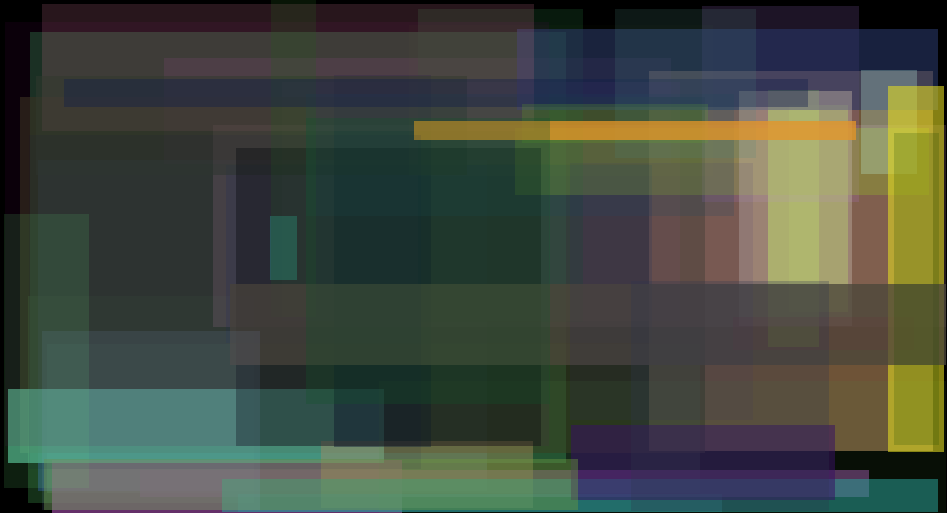
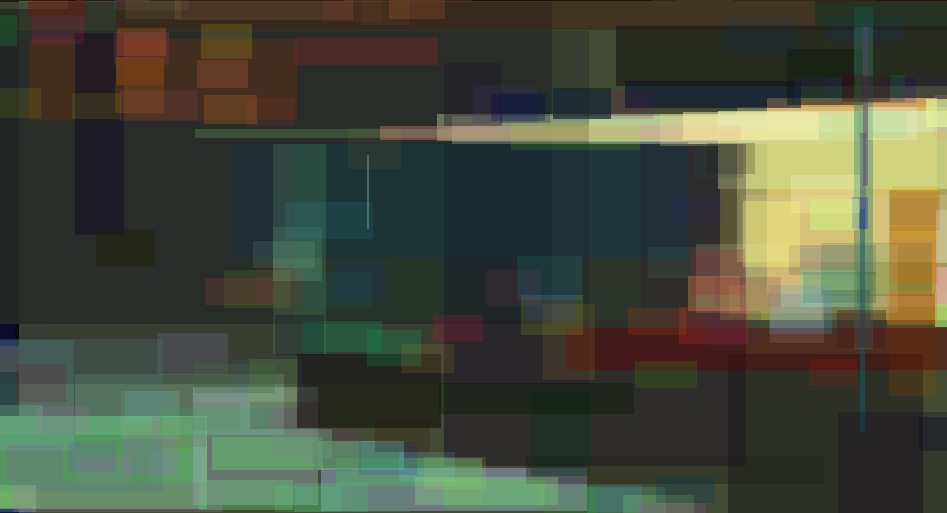
Add simulated annealing generation method

diff --git a/mozaik.py b/mozaik.py
@@ -16,22 +16,40 @@ class RectanglePrimitive:
     def apply(self, img):
         overlay = img.copy()
         output = img.copy()
-        cv2.rectangle(overlay, self.positionA, self.positionB, self.color, -1)
+        size = img.shape[1::-1]
+        cv2.rectangle(overlay, scale(self.positionA, size), scale(self.positionB, size), scale(self.color, 255), -1)
         cv2.addWeighted(overlay, self.alpha, output, 1 - self.alpha, 0, output)
         return output
 
+    def generateNeighbour(self):
+        WINDOW = 0.1
+        def eps():
+            return WINDOW*(2*random.random()-1)
+        size = np.absolute(np.array(self.positionB)-np.array(self.positionA))
+        center = (np.array(self.positionA)+np.array(self.positionB))/2
+        size = np.clip(size*np.array([1+eps(), 1+eps()]), 0.05, 1)
+        center += np.array([eps(), eps()])
+        positionA = np.clip(center-size/2, 0, 1)
+        positionB = np.clip(center+size/2, 0, 1)
+        color = np.clip(np.asarray(self.color)+np.array([eps(), eps(), eps()]), 0, 1)
+        alpha = np.clip(self.alpha+eps(), 0, 1)
+        return RectanglePrimitive(positionA, positionB, color, alpha)
+
     @staticmethod
-    def generateRandom(width, height):
-        positionA = (random.randint(0,width-1), random.randint(0,height-1))
-        positionB = (random.randint(0,width-1), random.randint(0,height-1))
-        color = (random.randint(0,255), random.randint(0,255), random.randint(0,255))
+    def generateRandom():
+        positionA = (random.random(), random.random())
+        positionB = (random.random(), random.random())
+        color = (random.random(), random.random(), random.random())
         alpha = random.random()
         return RectanglePrimitive(positionA, positionB, color, alpha)
 
     def __str__(self):
         return '{} {} - {} x {}'.format(self.positionA, self.positionB, self.color, self.alpha)
 
-def energy(image, reference):
+def scale(data, ratio):
+    return tuple((np.asarray(data)*np.asarray(ratio)).astype(int))
+
+def rmse(image, reference):
     return np.linalg.norm(reference - np.asarray(image, dtype=np.float32))
 
 def loadImage(filename):
@@ -39,20 +57,40 @@ def loadImage(filename):
 
 def randomGeneration(img, shapesCount, iterations):
     reference = np.asarray(img, dtype=np.float32)
-    height, width = img.shape[:2]
-    canvas = np.zeros((height,width,3), np.uint8)
+    canvas = np.zeros(img.shape, np.uint8)
     for i in range(shapesCount):
-        shapes = [RectanglePrimitive.generateRandom(width, height) for k in range(iterations)]
-        results = np.array([energy(shape.apply(canvas), reference) for shape in shapes])
+        shapes = [RectanglePrimitive.generateRandom() for k in range(iterations)]
+        results = np.array([rmse(shape.apply(canvas), reference) for shape in shapes])
         bestShape = shapes[results.argmin()]
         canvas = bestShape.apply(canvas)
-        print '({}/{}) Canvas error: {}'.format(i+1, iterations, energy(canvas, reference))
+        print '({}/{}) Canvas error: {}'.format(i+1, shapesCount, rmse(canvas, reference))
     return canvas
 
+def annealingGeneration(img, shapesCount, randomIterations, T0, Tf, tau):
+    reference = np.asarray(img, dtype=np.float32)
+    canvas = np.zeros(img.shape, np.uint8)
+    for i in range(shapesCount):
+        shapes = [RectanglePrimitive.generateRandom() for k in range(randomIterations)]
+        results = np.array([rmse(shape.apply(canvas), reference) for shape in shapes])
+        shape = shapes[results.argmin()]
+        energy = rmse(shape.apply(canvas), reference)
+        # print "Selected random seed: {}".format(energy)
+        T = T0
+        while T > Tf:
+            newShape = shape.generateNeighbour()
+            newEnergy = rmse(newShape.apply(canvas), reference)
+            if newEnergy < energy or random.random() < np.exp(-(newEnergy-energy)/T):
+                shape = newShape
+                energy = newEnergy
+            T = tau*T
+        canvas = shape.apply(canvas)
+        print '({}/{}) Canvas error: {:1.0f}'.format(i+1, shapesCount, rmse(canvas, reference))
+    return canvas
 
 def main(argv):
     inputfile = ''
-    outputfile = 'output.png'
+    outputfile = ''
+    shapesCount = 200
     try:
         opts, args = getopt.getopt(argv,"hi:o:",["input=","output="])
     except getopt.GetoptError:
@@ -66,11 +104,17 @@ def main(argv):
             inputfile = arg
         elif opt in ("-o", "--output"):
             outputfile = arg
+        elif opts in ("-c", "--count"):
+            shapesCount = arg
     if not inputfile:
         print 'mozaik.py -i <inputfile> -o <outputfile>'
         sys.exit(2)
     else:
-        result = randomGeneration(loadImage(inputfile), 50, 100)
+        random.seed()
+        img = loadImage(inputfile)
+        # result = randomGeneration(img, shapesCount, iterations=1000)
+        result = annealingGeneration(img, shapesCount, randomIterations=40, T0=50, Tf=1, tau=0.97)
+        # result = annealingGeneration(img, shapesCount, randomIterations=400, T0=50, Tf=0.1, tau=0.99)
         plt.axis('off')
         plt.imshow(cv2.cvtColor(result, cv2.COLOR_BGR2RGB))
         plt.show()
